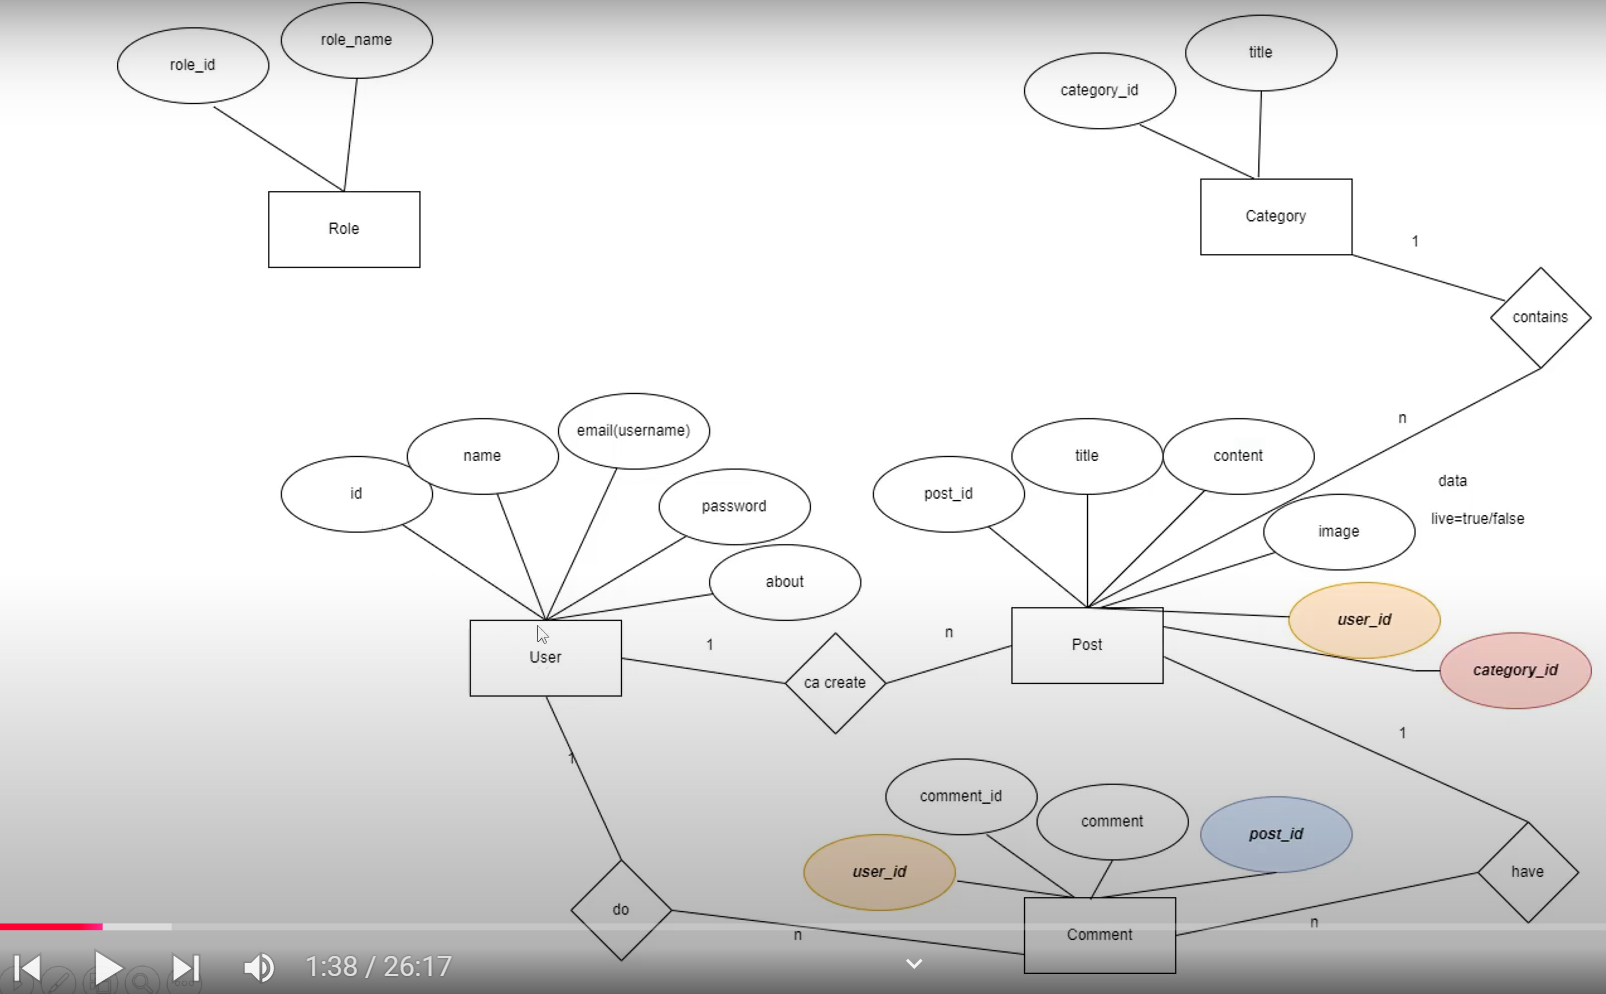
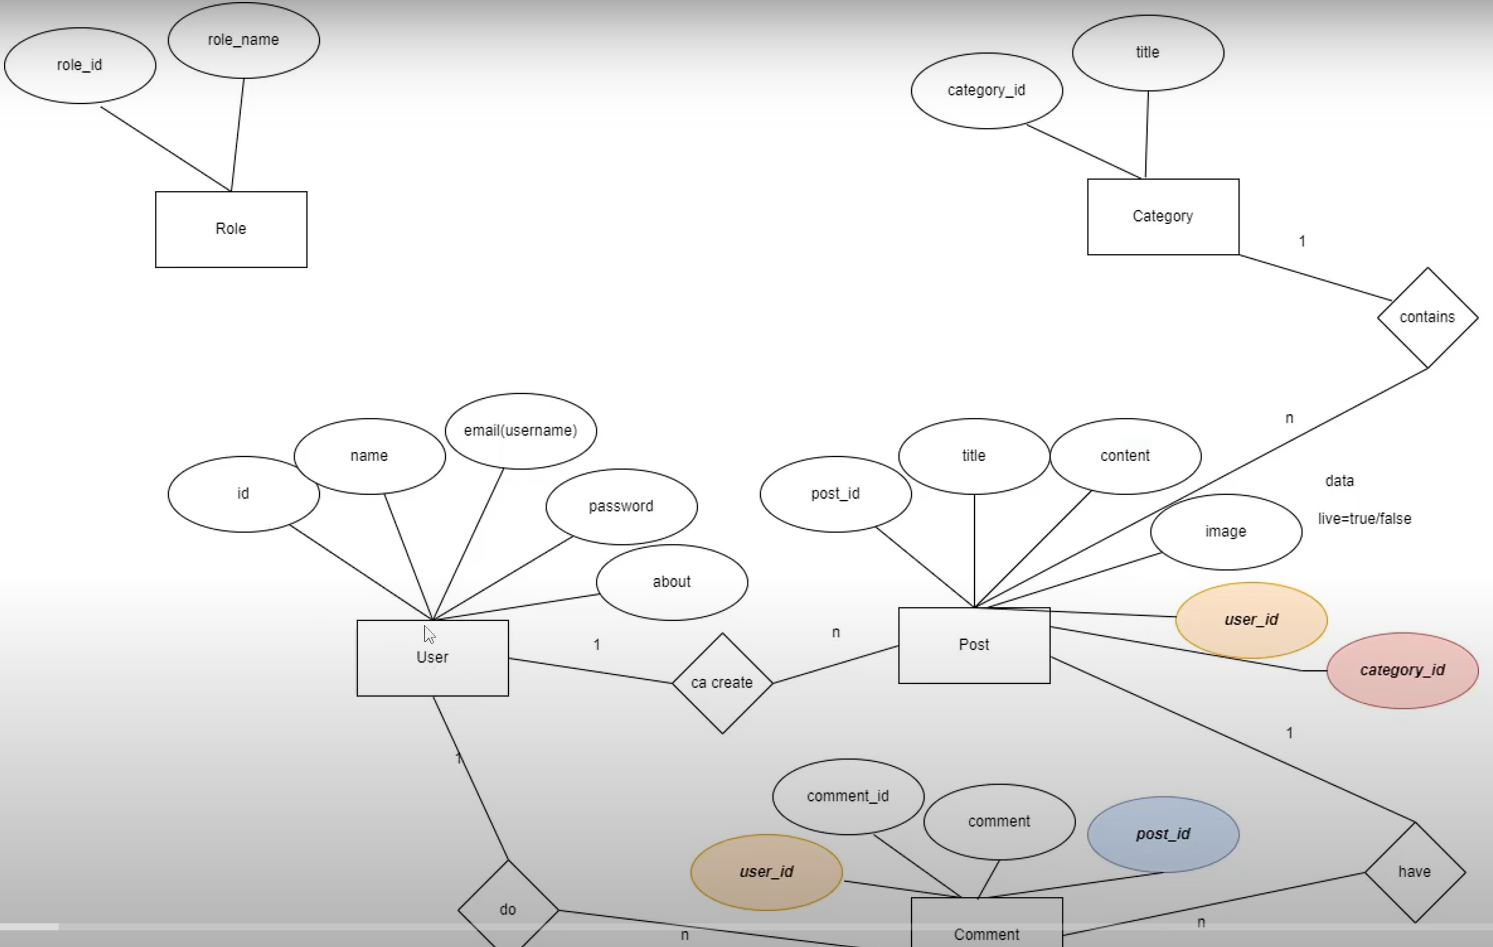
Adding code for User API

diff --git a/BlogApplication/src/main/java/com/sooraj/BlogApplication/controllers/UserController.java b/BlogApplication/src/main/java/com/sooraj/BlogApplication/controllers/UserController.java
@@ -1,0 +1,66 @@
+package com.sooraj.BlogApplication.controllers;
+
+import com.sooraj.BlogApplication.entities.User;
+import com.sooraj.BlogApplication.payloads.UserDTO;
+import com.sooraj.BlogApplication.services.UserService;
+import jakarta.validation.Valid;
+import org.springframework.beans.factory.annotation.Autowired;
+import org.springframework.data.util.ReflectionUtils;
+import org.springframework.http.HttpStatus;
+import org.springframework.http.ResponseEntity;
+import org.springframework.web.bind.annotation.*;
+
+import java.lang.reflect.Field;
+import java.util.List;
+import java.util.Map;
+
+@RestController
+@RequestMapping("/user")
+public class UserController {
+
+    @Autowired
+    private UserService userService;
+
+    //save user
+    @PostMapping
+    public ResponseEntity<UserDTO> saveUser(@Valid @RequestBody UserDTO userdto){
+        return new ResponseEntity<>(userService.createUser(userdto), HttpStatus.CREATED);
+    }
+
+    //get all users
+    @GetMapping
+    public ResponseEntity<List<UserDTO>> getAllUsers(){
+        return new ResponseEntity<>(userService.getAllUsers(),HttpStatus.OK);
+    }
+
+    //get user by id
+    @GetMapping("/{id}")
+    public ResponseEntity<UserDTO> getUserById(@PathVariable Integer id){
+        return new ResponseEntity<>(userService.getUserById(id),HttpStatus.FOUND);
+    }
+
+    //update user
+    @PutMapping("update/{id}")
+    public ResponseEntity<UserDTO> updateUser(@Valid @RequestBody UserDTO userDTO, @PathVariable int id){
+        return new ResponseEntity<>(userService.updateUser(userDTO,id), HttpStatus.CREATED);
+    }
+
+    //delete user
+    @DeleteMapping("/{id}")
+    public ResponseEntity<String> deleteUserById(@PathVariable int id){
+        return new ResponseEntity<>(userService.deleteUser(id),HttpStatus.OK);
+    }
+
+    @PatchMapping("/patch/{id}")
+    public ResponseEntity<UserDTO> partiallyUpdateRecord(@RequestBody Map<String,Object> partialUpdate, @PathVariable Integer id){
+
+        UserDTO userDTO= userService.getUserById(id);
+        partialUpdate.forEach((key, value) -> {
+            Field field = ReflectionUtils.findRequiredField(UserDTO.class,key);
+            field.setAccessible(true);
+            ReflectionUtils.setField(field, userDTO, value);
+        });
+
+        return new ResponseEntity<>(userService.updateUser(userDTO,id), HttpStatus.OK);
+    }
+}

diff --git a/BlogApplication/src/main/java/com/sooraj/BlogApplication/services/impl/UserServiceImpl.java b/BlogApplication/src/main/java/com/sooraj/BlogApplication/services/impl/UserServiceImpl.java
@@ -1,9 +1,11 @@
 package com.sooraj.BlogApplication.services.impl;
 
 import com.sooraj.BlogApplication.entities.User;
+import com.sooraj.BlogApplication.exceptions.ResourceNotFoundException;
 import com.sooraj.BlogApplication.payloads.UserDTO;
 import com.sooraj.BlogApplication.repositories.UserRepository;
 import com.sooraj.BlogApplication.services.UserService;
+import org.modelmapper.ModelMapper;
 import org.springframework.beans.factory.annotation.Autowired;
 import org.springframework.stereotype.Service;
 
@@ -16,34 +18,39 @@ public class UserServiceImpl implements UserService {
     @Autowired
     private UserRepository userRepository;
 
+    @Autowired
+    private ModelMapper modelMapper;
+
     @Override
     public UserDTO createUser(UserDTO user) {
-
-        return null;
+        User savedUser = userRepository.save(modelMapper.map(user,User.class));
+        return modelMapper.map(savedUser, UserDTO.class);
     }
 
     @Override
     public UserDTO updateUser(UserDTO user, Integer id) {
-        return null;
+        User getUser= userRepository.findById(id).orElseThrow(()-> new ResourceNotFoundException("User","id",id));
+        return modelMapper.map(userRepository.save(modelMapper.map(user,User.class)), UserDTO.class);
     }
 
     @Override
     public UserDTO getUserById(Integer id) {
-        User user= userRepository.findById(id).orElseThrow(()-> new RuntimeException("User not exists"));
-        return null;//new UserDTO(user);
+        User user= userRepository.findById(id).orElseThrow(()-> new ResourceNotFoundException("User","id",id));
+        return modelMapper.map(user, UserDTO.class);
     }
 
     @Override
     public List<UserDTO> getAllUsers() {
-
-       // return  userRepository.findAll().stream().map(UserDTO :: new).collect(Collectors.toList());
-    return null;
+        List<UserDTO> allUsers= userRepository.findAll().stream().map(u -> modelMapper.map(u, UserDTO.class)).toList();
+        return allUsers;
     }
 
     @Override
     public String deleteUser(Integer id) {
-        User user= userRepository.findById(id).orElseThrow(()-> new RuntimeException("User not exists"));
+        User user= userRepository.findById(id).orElseThrow(()-> new ResourceNotFoundException("User","id",id));
         userRepository.delete(user);
         return "User deleted succesfully";
     }
+
+
 }

diff --git a/BlogApplication/src/main/java/com/sooraj/BlogApplication/global/GlobalExceptionHandler.java b/BlogApplication/src/main/java/com/sooraj/BlogApplication/global/GlobalExceptionHandler.java
@@ -1,0 +1,41 @@
+package com.sooraj.BlogApplication.global;
+
+import com.sooraj.BlogApplication.exceptions.ErrorResponseDTO;
+import com.sooraj.BlogApplication.exceptions.ResourceNotFoundException;
+import org.springframework.http.HttpStatus;
+import org.springframework.http.ResponseEntity;
+import org.springframework.validation.FieldError;
+import org.springframework.web.bind.MethodArgumentNotValidException;
+import org.springframework.web.bind.annotation.ExceptionHandler;
+import org.springframework.web.bind.annotation.RestControllerAdvice;
+
+import java.util.HashMap;
+import java.util.Map;
+
+@RestControllerAdvice
+public class GlobalExceptionHandler {
+
+    @ExceptionHandler(ResourceNotFoundException.class)
+    public ResponseEntity<ErrorResponseDTO> caughtResourceNotFoundException(Exception exception){
+        ErrorResponseDTO errorResponse=new ErrorResponseDTO(exception.getClass().getSimpleName(), exception.getMessage());
+        return new ResponseEntity<>(errorResponse, HttpStatus.NOT_FOUND);
+    }
+
+    @ExceptionHandler(MethodArgumentNotValidException.class)
+    public ResponseEntity<Map<String,String>> caughtMethodArgumentNotValidException(MethodArgumentNotValidException exception){
+        //ErrorResponseDTO errorResponseDTO= new ErrorResponseDTO(exception.getClass().getSimpleName(), exception.getMessage());
+        Map<String,String> myNewHash=new HashMap<>();
+        exception.getBindingResult().getAllErrors().forEach(error->{
+            String errorFiled=((FieldError)error).getField();
+            String errorMessage=error.getDefaultMessage();
+            myNewHash.put(errorFiled,errorMessage);
+        });
+        return new ResponseEntity<>(myNewHash,HttpStatus.BAD_REQUEST);
+    }
+
+    @ExceptionHandler(Exception.class)
+    public ResponseEntity<ErrorResponseDTO> caughtGeneralException(Exception exception){
+        ErrorResponseDTO errorResponseDTO= new ErrorResponseDTO(exception.getClass().getSimpleName(), exception.getMessage());
+        return new ResponseEntity<>(errorResponseDTO,HttpStatus.BAD_REQUEST);
+    }
+}

diff --git a/BlogApplication/src/main/java/com/sooraj/BlogApplication/payloads/UserDTO.java b/BlogApplication/src/main/java/com/sooraj/BlogApplication/payloads/UserDTO.java
@@ -1,6 +1,10 @@
 package com.sooraj.BlogApplication.payloads;
 
 import com.sooraj.BlogApplication.entities.User;
+import jakarta.validation.constraints.Email;
+import jakarta.validation.constraints.NotEmpty;
+import jakarta.validation.constraints.NotNull;
+import jakarta.validation.constraints.Size;
 import lombok.AllArgsConstructor;
 import lombok.Getter;
 import lombok.NoArgsConstructor;
@@ -11,17 +15,19 @@ import lombok.Setter;
 @Getter
 @Setter
 public class UserDTO {
-    private int id;
-    private String email;
-    private String name;
-    private String password;
-    private String about;
 
-    public UserDTO(User user) {
-        this.id = user.getId();
-        this.email = user.getEmail();
-        this.name = user.getName();
-        this.password = user.getPassword();
-        this.about = user.getAbout();
-    }
+    private int id;
+    @Email(message = "Email address is not valid !!")
+    private String email;
+
+    @NotEmpty
+    @Size(min = 4, message = "User name must be of minimum 4 characters !!")
+    private String name;
+
+    @NotEmpty
+    @Size(min=4,max = 10, message = "User password must not less than 4 and more than 10 characters !!")
+    private String password;
+
+    @NotEmpty
+    private String about;
 }

diff --git a/BlogApplication/src/main/java/com/sooraj/BlogApplication/exceptions/ResourceNotFoundException.java b/BlogApplication/src/main/java/com/sooraj/BlogApplication/exceptions/ResourceNotFoundException.java
@@ -1,0 +1,20 @@
+package com.sooraj.BlogApplication.exceptions;
+
+import lombok.*;
+
+@Getter
+@Setter
+@NoArgsConstructor
+public class ResourceNotFoundException extends RuntimeException{
+    String resourceName;
+    String resourceFieldName;
+    Integer fieldVal;
+
+    public ResourceNotFoundException(String resourceName,String fieldName,Integer fieldValue){
+        super(String.format("%s not found with %s : %d",resourceName,fieldName,fieldValue));
+        //super("Resource Not Found");
+        this.fieldVal=fieldValue;
+        this.resourceName=resourceName;
+        this.resourceFieldName=fieldName;
+    }
+}

diff --git a/BlogApplication/src/main/java/com/sooraj/BlogApplication/exceptions/ErrorResponseDTO.java b/BlogApplication/src/main/java/com/sooraj/BlogApplication/exceptions/ErrorResponseDTO.java
@@ -1,0 +1,18 @@
+package com.sooraj.BlogApplication.exceptions;
+
+import lombok.Getter;
+import lombok.NoArgsConstructor;
+import lombok.Setter;
+
+@NoArgsConstructor
+@Setter
+@Getter
+public class ErrorResponseDTO {
+   private String exceptionName;
+   private String exceptionMessage;
+
+   public ErrorResponseDTO(String name, String message){
+      this.exceptionName=name;
+      this.exceptionMessage=message;
+   }
+}

diff --git a/BlogApplication/src/main/java/com/sooraj/BlogApplication/entities/User.java b/BlogApplication/src/main/java/com/sooraj/BlogApplication/entities/User.java
@@ -22,5 +22,14 @@ public class User {
     private String password;
     private String about;
 
-
+    @Override
+    public String toString() {
+        return "User{" +
+                "id=" + id +
+                ", email='" + email + '\'' +
+                ", name='" + name + '\'' +
+                ", password='" + password + '\'' +
+                ", about='" + about + '\'' +
+                '}';
+    }
 }

diff --git a/BlogApplication/src/main/java/com/sooraj/BlogApplication/config/Configuration.java b/BlogApplication/src/main/java/com/sooraj/BlogApplication/config/Configuration.java
@@ -1,0 +1,14 @@
+package com.sooraj.BlogApplication.config;
+
+
+import org.modelmapper.ModelMapper;
+import org.springframework.context.annotation.Bean;
+
+@org.springframework.context.annotation.Configuration
+public class Configuration {
+
+    @Bean
+    public ModelMapper getMapperObject(){
+        return new ModelMapper();
+    }
+}
